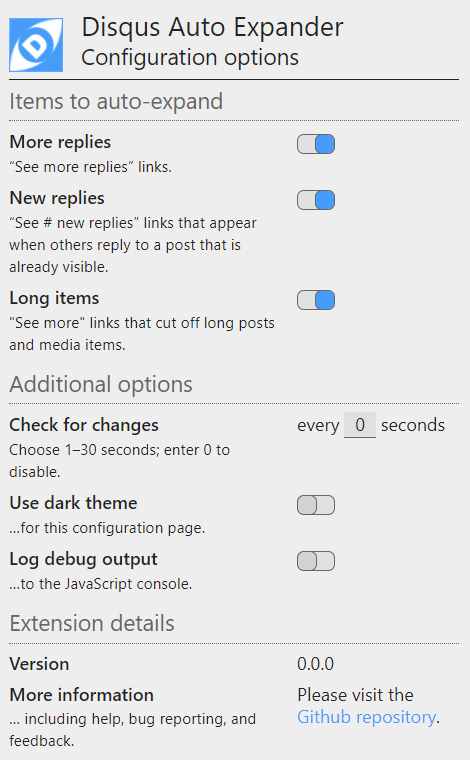
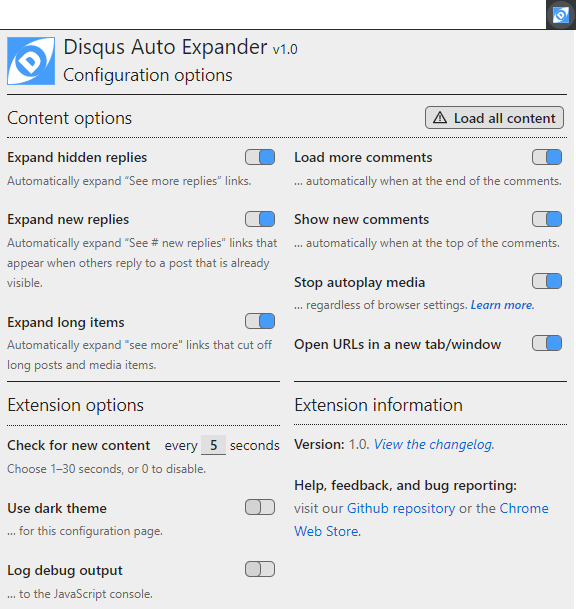
Updates for version 1.0.

diff --git a/README.md b/README.md
@@ -27,17 +27,17 @@ After you install one of those browsers, [install the extension from the Google 
 
 ### Other browsers
 
-I have not tried to install the extension on any other browsers (e.g., MS Edge, Opera, Safari, etc.). I don't have access to an iOS device, so I can't do the development work necessary to make it work on Safari [see note below]. I can try MS Edge and Opera—especially since MS Edge is going to adopt the WebKit browser engine (the same engine that powers Chrome and Safari), albeit with some Microsoft-specific customizations.
+I have not tried to install the extension on any other browsers (e.g., MS Edge, Opera, Safari, etc.). I don’t have access to an iOS device, so I can’t do the development work necessary to make it work on Safari (see note below). I can try MS Edge and Opera—especially since MS Edge is going to adopt the WebKit browser engine (the same engine that powers Chrome and Safari), albeit with some Microsoft-specific customizations.
 
 I will update this section when I have more to share.
 
-_**Note:** if you are a web developer with an iOS machine and would like to help adapt this extension for Safar, please contact me. The code is open source, but I would like to collaborate, especially as I'm planning to add more features in the future._
+_**Note:** if you are a web developer with an iOS machine, and you are willing to help adapt this extension for Safari, please contact me. The code is open source, but I would like to collaborate with you._
 
 ---
 
 ## Configuration and operation
 
-The extension is designed to work automatically, and it is configured with the most useful options (i.e., expand all replies and long media items; and check for new links every 5 seconds).
+The extension is designed to work automatically, and it is configured with the most useful options (i.e., expand all replies and long media items; load new comments and more comments, and check for new links every 5 seconds).
 
 You can change the configuration to choose (a) which links to automatically expand, and (b) how often to check for new links. There are three ways to access the configuration screen:
 
@@ -57,21 +57,27 @@ Either of the last two options will display a new browser tab or window containi
 
 On the configuration popup or page you can change any of the options shown. Changes take effect immediately (there is no “Save” button) and—if you are signed in to your browser’s synchronization service—will be synchronized to your other browsers.
 
-### Configuration help
+### Configuration options
 
-Click the Disqus Auto-Expander icon (![](docs/dax_icon_blue.png) or ![](docs/dax_icon_gray.png)) to display the Configuration options page. When the icon is blue, the Options page appears as a popup window. Note that you might have to scroll down to see all of the options.
+Click the Disqus Auto-Expander icon (![](docs/dax_icon_blue.png) or ![](docs/dax_icon_gray.png)) to display the Configuration options page. When the icon is blue, the active tab or window contains a Disqus discussion. The Options page appears as a popup when the icon is clicked. Note that you might have to scroll down to see all of the options in the popup.
 
-When the icon is gray, the browser’s Extension management menu appears instead. Choose the “Options” item to display the Configuration options page in a new browser tab or window. The sections below provide more information about these configuration options.
+When the icon is gray, the active tab or window does not contain a Disqus discussion. The browser’s Extension management menu appears when the icon is clicked. Choose the “Options” menu item to display the Configuration options page in a new browser tab or window. 
 
-Note that your changes on the Configuration options page are saved automatically. And if you use your browser’s synchronization feature, your settings will be synchronized to your other browsers.
+The sections below provide more information about these configuration options.
+
+_**Note:** your changes on the Configuration options page are saved automatically. And if you use your browser’s synchronization feature, your settings will be synchronized to your other browsers._
 
 #### Load all content
 
 _**Note**: as of June 20, 2019, this feature is currently only available for Chrome, and has not yet been published to the Chrome web store._
 
-Click this button to repeatedly expand all content and reply links until all of the discussion’s content is loaded. This is most useful for discussions that are not receiving any new comments or replies. The goal is to allow searching the full content of the discussion using your browser’s “Find...” (Ctrl+F) command.
+Click this button to automatically expand all content and reply links until all of the discussion content is loaded. This feature is most useful for discussions that are not receiving new comments or replies. The goal is to allow searching the full content of the discussion using your browser’s “Find...” (Ctrl+F) command.
 
-Note that this button is only available from the popup version of the options page, since it applies to the currently active window/tab that contains a Disqus discussion.
+_**Notes**:_ 
+
+_1. This button is only available from the popup version of the options page, since it applies to the currently active tab or window that contains a Disqus discussion._
+
+_2. The button is disabled when the active tab or window does not contain a Disqus discussion (including on the Extensions page)._
 
 Since this option could load a lot of data (and media, if you have [Display Media mode enabled](#a-note-about-hidden-media-items)), this is not a persistent option. Instead, you can use this button to load all of the content on demand. When you click this button you will be prompted to confirm that you want to proceed.
 
@@ -104,23 +110,32 @@ When an embedded audio or video player is revealed, it might play automatically.
 
 However, even after following these instructions, the browser may still allow some media to autoplay (this seems to depend on whether you have previously interacted with the source of that media). This feature tries to prevent autoplay media embedded by Disqus, regardless of the autoplay settings in your browser.
 
-#### Open links in a new tab/window
+#### Open URLs in a new tab/window
 
-When you click on an embedded media item (image, Tweet, video), the item displays in a new browser tab or window (depending on your browser’s settings). However, URLs entered in comments and replies are also clickable, but they load in the _current_ window, replacing the page you are viewing. This feature forces those URLs to open in a new browser tab or window.
+When you click on an embedded media item (image, Tweet, video), the item opens in a new browser tab or window (depending on your browser’s settings). URLs entered in comments and replies are also clickable, but they load in the _current_ window, replacing the page you are viewing. This feature forces those URLs to open in a new browser tab or window.
 
 #### Extension options
 
 These options control other aspects of the extension.
 
-- **Check for changes**: controls how often (in seconds) the extension checks for new links.
-- **Use dark theme**: changes the options page to a dark color scheme.
+- **Check for changes**: controls how often (in seconds) the extension checks for new links. If you set this value to 0 (zero), the extension pauses its search for new links to expand. In that case, the extension’s icon changes to a “paused” image: ![Extension icon when paused](docs/dax_icon_paused.png).
+
+- **Use dark theme**: displays the options page in a dark color scheme:
+![Configuration options popup in dark theme](docs/dax_config_page_dark.png)
+
 - **Log debug output**: causes the extension to log debug messages to the brower’s Developer Console. You should not need to enable this option during normal usage.
 
 ---
 
-## Future changes
+## Reporting bugs
 
-I welcome your suggestions for new features.
+If you encounter a bug, please create an Issue in this repository. Be sure include the following information:
+- The URL of the page where the error happened.
+- The issue you experienced (describe in as much detail as possible).
+- If you can reproduce the problem, provide the steps to do so.
+- Which browser (including version) you are using.
+- Which version of the extension you are using (the version is shown on the Configuration options page).
+- Any other information you think would be helpful.
 
 ---
 
@@ -128,8 +143,8 @@ I welcome your suggestions for new features.
 
 ### Version 1.0
 
-- New **Load all content** option: repeatedly expands all replies and content links and buttons until all content has been loaded.
-- The extension’s icon in the browser’s toolbar changes to a “pause” icon when the “Check for new content” option is set to zero.
+- New **Load all content** option: automatically expands all replies and content links and buttons until all content has been loaded.
+- The extension’s icon in the browser’s toolbar changes to a “pause” icon when the “Check for new content” option is set to 0 (zero).
 
 ### Version 0.3
 
@@ -140,14 +155,14 @@ New auto-expand options:
 
 Bug fixes:
 
-- Fixed the **Open links in a new tab/window** option.
+- Fixed the **Open URLs in a new tab/window** option.
 
 ### Version 0.2
 
 New content management options:
 
 - **Stop autoplay media**: attemtps to stop autoplay embedded audio and video items (because the browser settings to do this do not always work). Does not affect GIFs.
-- **Open links in a new tab/window**: forces URLs included in a comment to open in a new browser window or tab (depending on your browser’s settings).
+- **Open links in a new tab or window**: forces URLs included in a comment to open in a new browser window or tab (depending on your browser’s settings).
 
 ### Version 0.1
 
